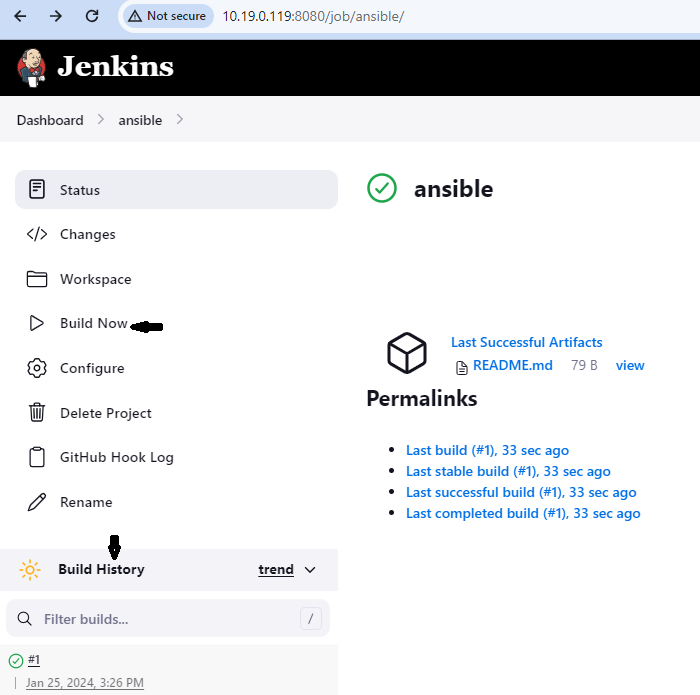
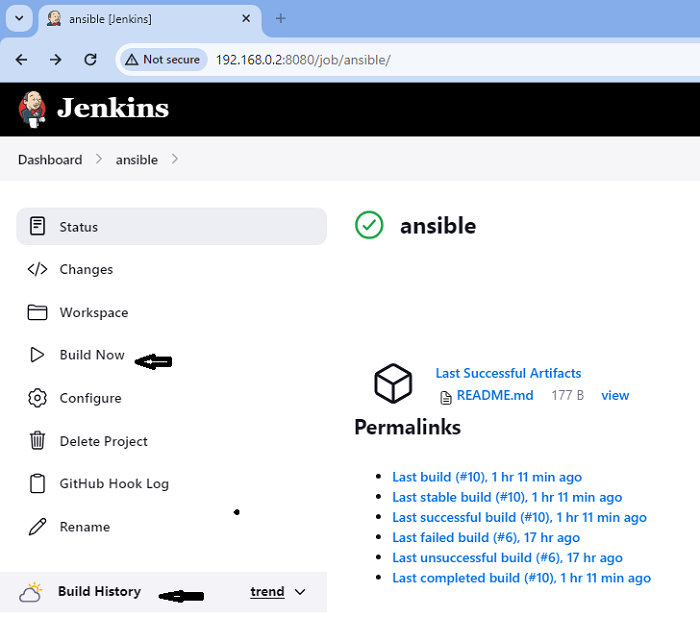
Updated project documentation and images

diff --git a/PROJECT 11/Project11.md b/PROJECT 11/Project11.md
@@ -183,9 +183,11 @@ This job archives the repository content every time a change is made to it.
 
     - Under `Payload URL` option, add the `<jenkins_url:8080/github-webhook`. Set `Content type` to `application/json`, and click on `Add webhook` at the bottom of the page.
 
-    *Note: Due to the fact that my setup was on VirtualBox and behind my router firewall, numerous attempts to configure a Webhook from GitHub to Jenkins failed. I had to install a software called `ngrok` on the Jenkins/Ansible Server, which generated a Public IP that GitHub could reach. Also, I had to employ a new set of IPs to work with the current configuration. My Jenkins/Ansible Server is now running on `192.168.0.2:8080`* OK
+    *Note: Due to the fact that my setup was on VirtualBox and behind my router firewall, numerous attempts to configure a Webhook from GitHub to Jenkins failed. I had to install a software called `ngrok` on the Jenkins/Ansible Server, which generated a Public IP that GitHub could reach. Also, I had to employ a new set of IPs to work with the current configuration. My Jenkins/Ansible Server is now running on `192.168.0.2:8080`*
 
     ![Alt text](Images/jen-server32.png)
+
+    ![Alt text](Images/jen-server32-1.png)
 
     - Configure a post-build job to archive all artifacts by clicking on `Archive the artifacts` under the `Post-build actions` section. Enter `**` in the field then `Apply` and `Save`
 
@@ -198,6 +200,10 @@ This job archives the repository content every time a change is made to it.
     ![Alt text](Images/jen-server35.png)
 
     - Test the setup by making some changes in the `README.md` file in the `main` branch on GitHub and ensure that the build starts automatically in Jenkins and the file is saved in the `` folder
+
+    ![Alt text](Images/jen-server36.png)
+
+    ![Alt text](Images/jen-server37.png)
 
     
 
